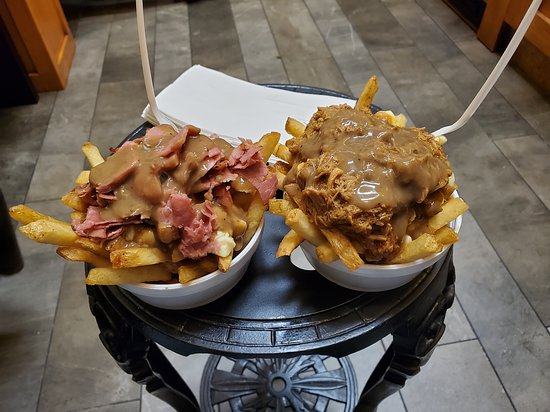
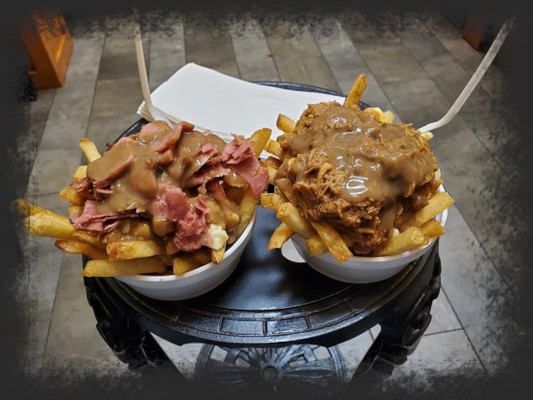
Se añaden imagenes con efecto y tamaño correcto

Changed region(s): [[0.0, 0.0, 1.0, 1.0], [0.03, 0.84, 0.06, 0.87]]

diff --git a/index.html b/index.html
@@ -123,7 +123,7 @@
 
             <div class="menu-section">
                 <div class="menu-image-container">
-                    <img class="menu-image" src="img/menu-1.jpg" alt="">
+                    <img class="menu-image" src="img/menu-2.jpg" alt="">
                 </div>
                 <div class="menu-description">
                     <h3 class="menu-subtitle"><i class="fas fa-minus"></i> Vegan <i class="fas fa-minus"></i></h3>
@@ -143,7 +143,7 @@
 
             <div class="menu-section">
                 <div class="menu-image-container">
-                    <img class="menu-image" src="img/menu-1.jpg" alt="">
+                    <img class="menu-image" src="img/menu-3.jpg" alt="">
                 </div>
                 <div class="menu-description">
                     <h3 class="menu-subtitle"><i class="fas fa-minus"></i> European Dips <i class="fas fa-minus"></i></h3>
@@ -163,7 +163,7 @@
 
             <div class="menu-section">
                 <div class="menu-image-container">
-                    <img class="menu-image" src="img/menu-1.jpg" alt="">
+                    <img class="menu-image" src="img/menu-4.jpg" alt="">
                 </div>
                 <div class="menu-description">
                     <h3 class="menu-subtitle"><i class="fas fa-minus"></i> Dips <i class="fas fa-minus"></i></h3>
@@ -222,7 +222,7 @@
 
             <div class="menu-section">
                 <div class="menu-image-container">
-                    <img class="menu-image" src="img/menu-1.jpg" alt="">
+                    <img class="menu-image" src="img/menu-5.jpg" alt="">
                 </div>
                 <div class="menu-description">
                     <h3 class="menu-subtitle"><i class="fas fa-minus"></i> Hot Dogs <i class="fas fa-minus"></i></h3>
